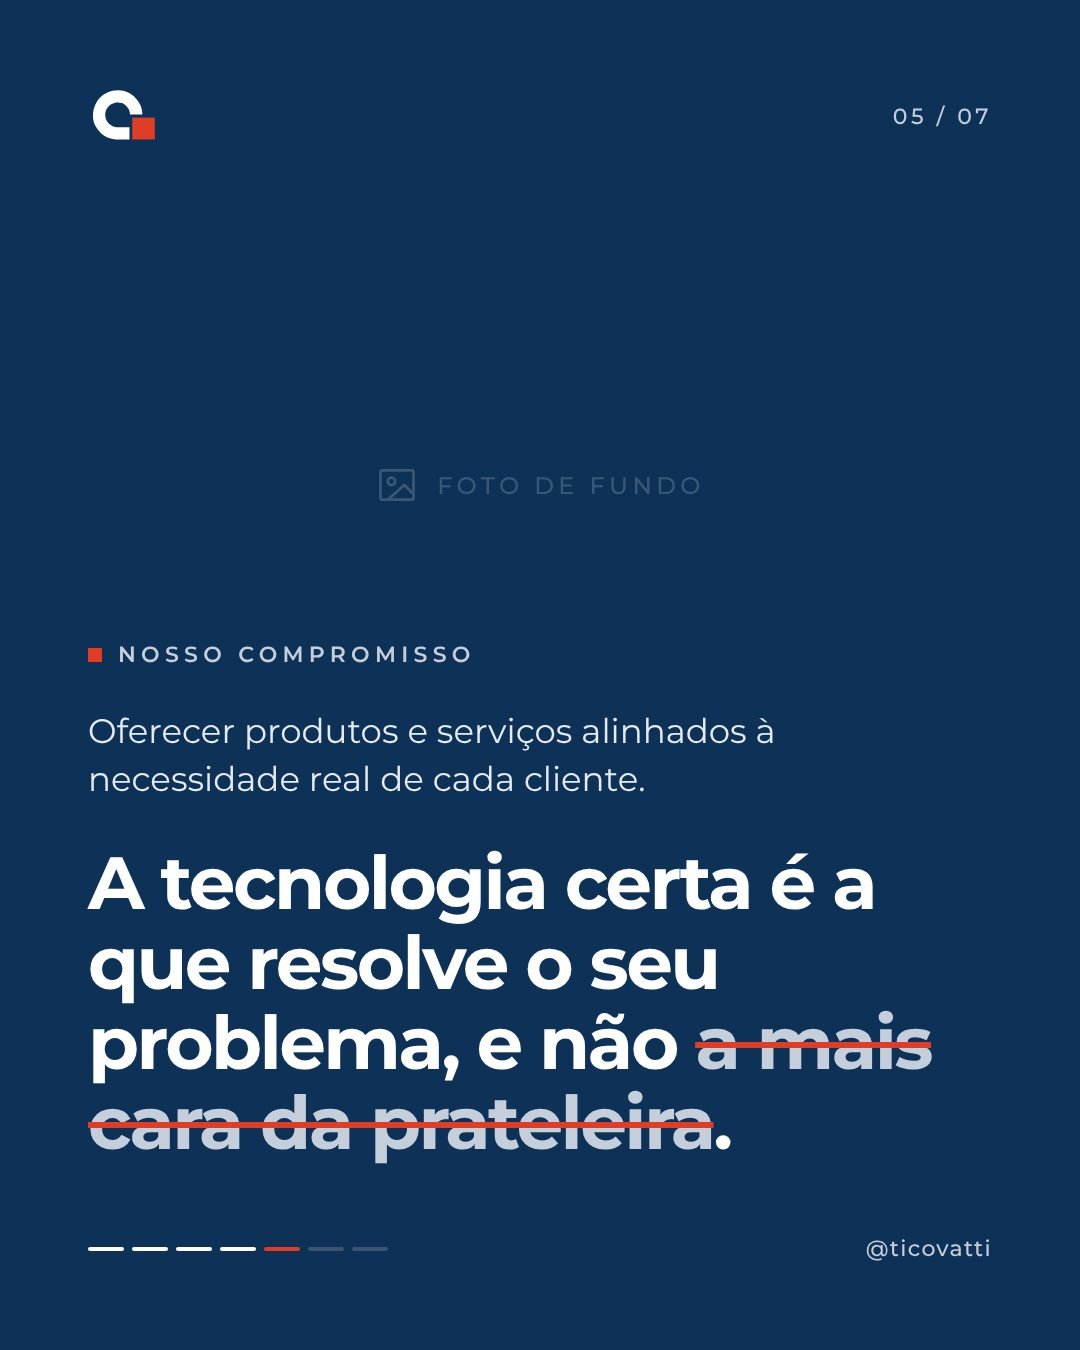
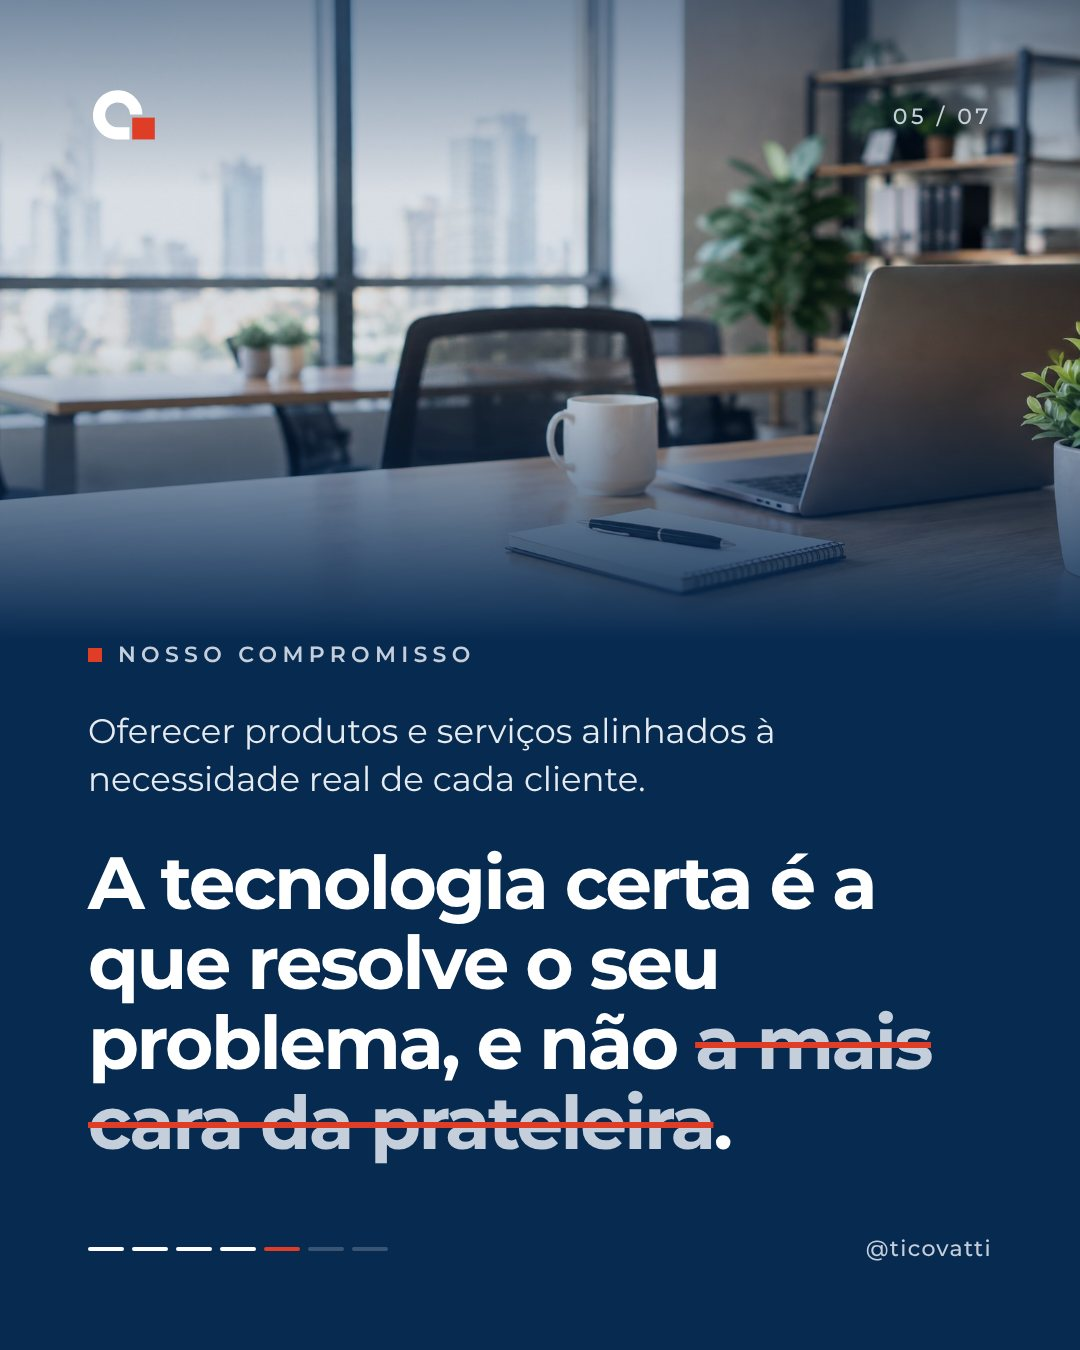
Add files via upload

diff --git a/novembro-2026/index.html b/novembro-2026/index.html
@@ -235,8 +235,7 @@ const CONTEUDO = [
       "p01-5.jpg",
       "p01-6.jpg",
       "p01-7.jpg"
-    ],
-    "pendente": "fotos nos slides 3 e 5"
+    ]
   },
   {
     "taskId": "1dfh60pfynj",
